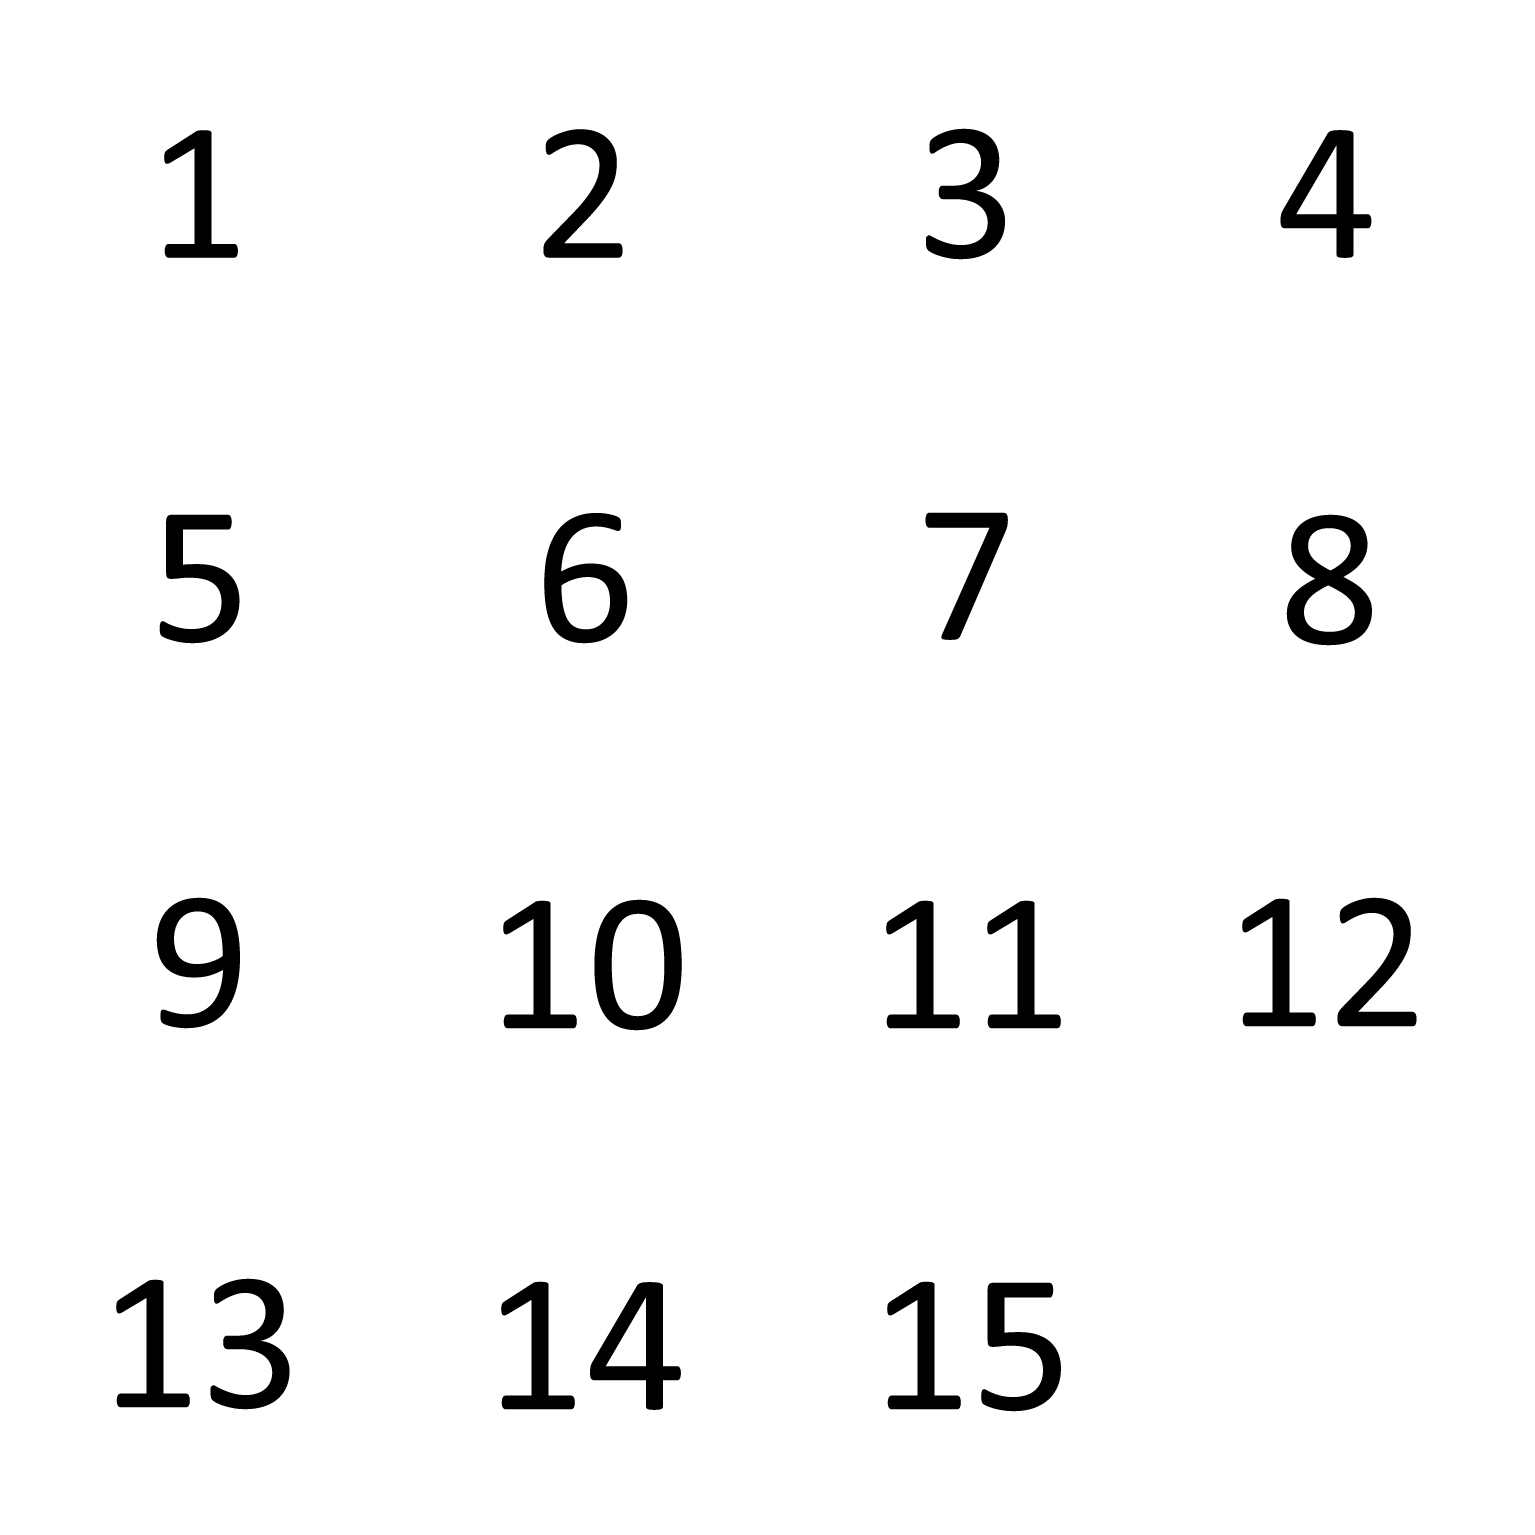
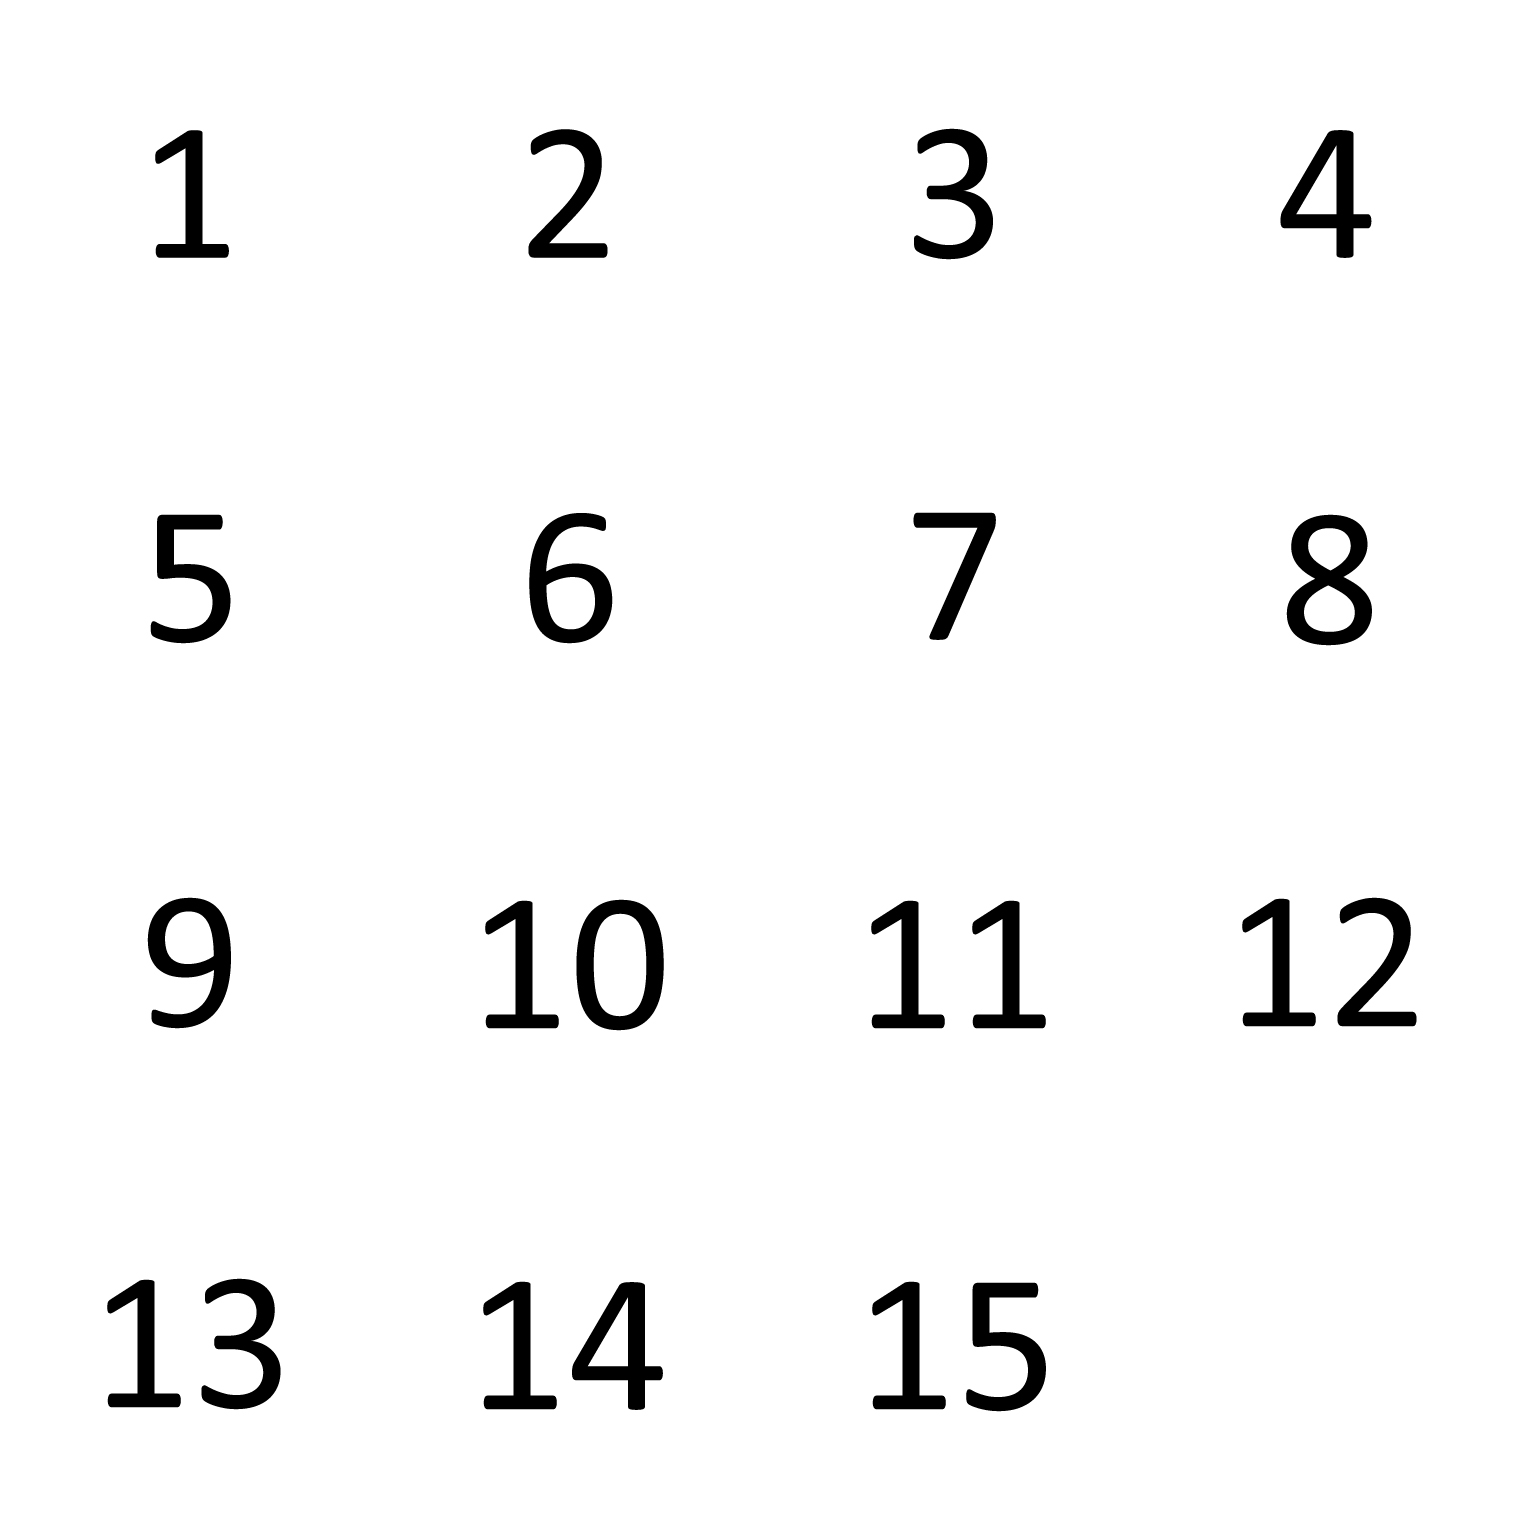
Update-2
-changed MenuController to be extendable
-added row and columns fields
-started working on image cropping

diff --git a/general/MenuController.java b/general/MenuController.java
@@ -11,7 +11,9 @@ import javafx.scene.control.MenuButton;
 import javafx.scene.control.MenuItem;
 import javafx.scene.image.Image;
 import javafx.scene.image.ImageView;
+import javafx.scene.layout.ColumnConstraints;
 import javafx.scene.layout.GridPane;
+import javafx.scene.layout.RowConstraints;
 import javafx.stage.FileChooser;
 
 public class MenuController {
@@ -20,9 +22,7 @@ public class MenuController {
 	@FXML
 	ImageView preview;
 	@FXML
-	GridPane grid3x3;
-	@FXML
-	GridPane grid4x4;
+	GridPane grid;
 	
 	//Select Mode Options
 	@FXML
@@ -36,17 +36,18 @@ public class MenuController {
 	@FXML
 	MenuButton sizeSelector;
 	@FXML
-	MenuItem selectSize3x3;
+	MenuItem size3x3;
 	@FXML
-	MenuItem selectSize4x4;
+	MenuItem size4x4;
 	
 	@FXML
 	Button play;
 
 	
 	SlidePuzzleApp puzzleApp;
-	boolean imageMode;
-	int puzzleSize;
+	int puzzleRows;
+	int puzzleColumns;
+	Image img;
 	
 	
 	@FXML
@@ -57,56 +58,93 @@ public class MenuController {
         
         File imgFile = fileChooser.showOpenDialog(puzzleApp.getPrimaryStage());
         if (imgFile != null) {
-        	Image img = new Image(imgFile.toURI().toString(), 300, 300, false, true);
+        	img = new Image(imgFile.toURI().toString(), preview.getFitWidth(), preview.getFitHeight(), false, true);
         	preview.setImage(img);
         	modeSelector.setText(imgFile.getName());
+        }
+        
+        if (!sizeSelector.getText().equals("Select Size...")) {
+        	grid.setGridLinesVisible(true);
         }
 	}
 	
 	@FXML
 	protected void loadNumbers(ActionEvent event) throws FileNotFoundException {
-		if (puzzleSize == 3) {
-			FileInputStream fileIS = new FileInputStream("resources/images/numbers3x3.jpg");
-			Image img = new Image(fileIS, 300, 300, false, true);
-			preview.setImage(img);
-		} else if (puzzleSize == 4) {
-			FileInputStream fileIS = new FileInputStream("resources/images/numbers4x4.jpg");
-			Image img = new Image(fileIS, 300, 300, false, true);
+		if (puzzleRows >= 3 && puzzleColumns >= 3) {
+			FileInputStream fileIS = new FileInputStream("src/resources/images/numbers" + puzzleRows + "x" + puzzleColumns +".jpg");
+			img = new Image(fileIS, 300, 300, false, true);
 			preview.setImage(img);
 		}
 		modeSelector.setText(numbers.getText());
+		
+		if (!sizeSelector.getText().equals("Select Size...")) {
+        	grid.setGridLinesVisible(true);
+        }
 	}
 	
 	@FXML
 	protected void selectSize(ActionEvent event) {
-		if (event.getSource().equals(selectSize3x3)) {
-			sizeSelector.setText("3x3");
-			puzzleSize = 3;			
+		if (event.getSource().equals(size3x3)) {
+			sizeSelector.setText(size3x3.getText());
+			setPuzzleRows(3);
+			setPuzzleColumns(3);
+			setGrid();
 			if (modeSelector.getText().equals(numbers.getText())) {
 				numbers.fire();
 			}
-			grid4x4.setGridLinesVisible(false);
-			grid3x3.setGridLinesVisible(true);
-		} else if (event.getSource().equals(selectSize4x4)) {
-			sizeSelector.setText("4x4");
-			puzzleSize = 4;
+		} else if (event.getSource().equals(size4x4)) {
+			sizeSelector.setText(size4x4.getText());
+			setPuzzleRows(4);
+			setPuzzleColumns(4);
+			setGrid();
 			if (modeSelector.getText().equals(numbers.getText())) {
 				numbers.fire();
 			}
-			grid3x3.setGridLinesVisible(false);
-			grid4x4.setGridLinesVisible(true);
 		}
-			
+		if (!modeSelector.getText().equals("Select Mode...")) {
+			grid.setGridLinesVisible(true);
+		}
 	}
 	
 	@FXML
 	protected void playGame(ActionEvent event) {
 		if (preview != null) {
-			puzzleApp.showPuzzle();
-			
+			puzzleApp.showPuzzle(img, puzzleRows, puzzleColumns);			
+		}
+	}	
+	
+	
+	public void setGrid() {
+		double colSize =  grid.getWidth() / puzzleColumns;
+		double rowSize = grid.getHeight() / puzzleRows;
+		
+		resetGrid();		
+		
+		for (int i = 0; i < puzzleColumns; i++) {
+			ColumnConstraints col = new ColumnConstraints();
+			col.setPrefWidth(colSize);
+			grid.getColumnConstraints().add(col);
+		}
+		for (int i = 0; i < puzzleRows; i++) {
+			RowConstraints row = new RowConstraints();
+			row.setPrefHeight(rowSize);
+			grid.getRowConstraints().add(row);
 		}
 	}
 	
+	public void resetGrid() {
+		grid.setGridLinesVisible(false);
+		grid.getRowConstraints().clear();
+		grid.getColumnConstraints().clear();		
+	}	
+
+	public void setPuzzleRows(int puzzleRows) {
+		this.puzzleRows = puzzleRows;
+	}
+
+	public void setPuzzleColumns(int puzzleColumns) {
+		this.puzzleColumns = puzzleColumns;
+	}	
 	
 	public void setPuzzleApp(SlidePuzzleApp sPApp) {
 		this.puzzleApp = sPApp;

diff --git a/general/PuzzleController.java b/general/PuzzleController.java
@@ -3,26 +3,59 @@ package general;
 import javafx.event.ActionEvent;
 import javafx.fxml.FXML;
 import javafx.scene.control.Button;
+import javafx.scene.image.Image;
 import javafx.scene.image.ImageView;
+import javafx.scene.image.PixelReader;
+import javafx.scene.image.WritableImage;
+import javafx.scene.layout.GridPane;
+import javafx.scene.shape.Rectangle;
 
 public class PuzzleController {
 
 	@FXML
-	Button b1;
+	Button restart;
+	@FXML
+	Button menu;
+	
 	@FXML
 	ImageView imgview;
 	
-	SlidePuzzleApp sPApp;
 	
 	@FXML
-	protected void moveImage(ActionEvent event) {
-		//imgview.setImage(img);
-		imgview.setLayoutX(400);
-		imgview.setLayoutY(400);
+	GridPane grid;
+	
+	@FXML
+	Rectangle r1;
+	
+	SlidePuzzleApp puzzleApp;
+	int puzzleRows;
+	int puzzleColumns;
+	Image img;
+
+	
+	@FXML
+	protected void goToMenu(ActionEvent event) {
+		puzzleApp.showMenu();
 	}
 	
-	public void setSPApp(SlidePuzzleApp sPApp) {
-		this.sPApp = sPApp;
+	@FXML
+	protected void testImage(ActionEvent event) {
+		PixelReader pPeader = img.getPixelReader();
+		WritableImage newImage = new WritableImage(pPeader, 0, 0, 100, 100);
+		imgview.setImage(newImage);
+	}
+	
+	public void setImage(Image img) {
+		this.img = img;
+	}
+	
+	public void setPuzzleApp(SlidePuzzleApp puzzleApp) {
+		this.puzzleApp = puzzleApp;
+	}
+
+	public void setSize(int rows, int columns) {
+		this.puzzleRows = rows;
+		this.puzzleColumns = columns;
 	}
 
 }

diff --git a/general/SlidePuzzleApp.java b/general/SlidePuzzleApp.java
@@ -5,6 +5,7 @@ import java.io.IOException;
 import javafx.application.Application;
 import javafx.fxml.FXMLLoader;
 import javafx.scene.Scene;
+import javafx.scene.image.Image;
 import javafx.scene.layout.BorderPane;
 import javafx.stage.Stage;
 
@@ -38,7 +39,7 @@ public class SlidePuzzleApp extends Application {
 		}
 	}
 	
-	public void showPuzzle() {
+	public void showPuzzle(Image img, int rows, int columns) {
 		try {
 			FXMLLoader loader = new FXMLLoader();
 			loader.setLocation(SlidePuzzleApp.class.getResource("Puzzle.fxml"));
@@ -49,7 +50,9 @@ public class SlidePuzzleApp extends Application {
             primaryStage.show();
             
             PuzzleController controller = loader.getController();
-            controller.setSPApp(this);
+            controller.setPuzzleApp(this);
+            controller.setImage(img);
+            controller.setSize(rows, columns);
 		} catch (IOException e) {
 			e.printStackTrace();
 		}
